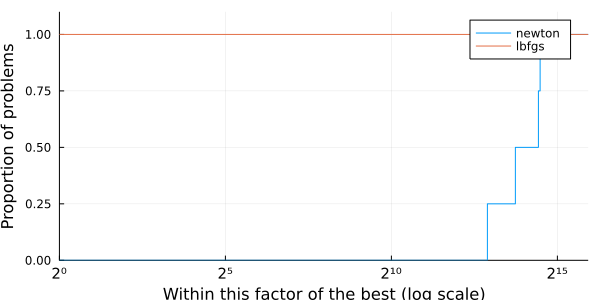
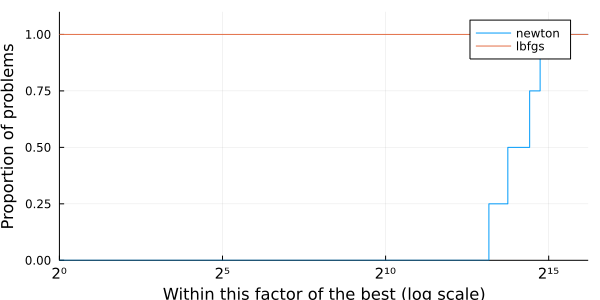
Deploying to gh-pages from  @ dcdb9bae952de26ad7f4052e1809d3c5ec10b59e 🚀

diff --git a/index.html b/index.html
@@ -1,4 +1,4 @@
-<!doctype html> <html lang=en  class=has-navbar-fixed-top > <meta charset=UTF-8 > <meta name=viewport  content="width=device-width, initial-scale=1"> <link rel=stylesheet  href="/libs/katex/katex.min.css"> <link rel=stylesheet  href="/libs/highlight/github.min.css"> <link rel=stylesheet  href="/css/styles.css"> <style> html {font-size: 17px;} .franklin-content {position: relative; padding-left: 8%; padding-right: 5%; line-height: 1.35em;} @media (min-width: 940px) { .franklin-content {width: 100%; margin-left: auto; margin-right: auto;} } @media (max-width: 768px) { .franklin-content {padding-left: 6%; padding-right: 6%;} } </style> <link rel=icon  href="/assets/favicon.png"> <title>Creating a JSO-compliant solver</title> <script src="/libs/highlight/highlight.pack.js"></script> <script src="https://unpkg.com/clipboard@2/dist/clipboard.min.js"></script> <script type=module  src="https://unpkg.com/ionicons@5.5.2/dist/ionicons/ionicons.esm.js"></script> <script nomodule src="https://unpkg.com/ionicons@5.5.2/dist/ionicons/ionicons.js"></script> <script> hljs.getLanguage('julia').keywords.custom = 'obj grad hess AbstractNLPModel'; </script> <nav class="navbar is-primary is-fixed-top" role=navigation  aria-label="main navigation"> <div class=navbar-brand > <a class=navbar-item  href="https://jso-docs.github.io"> <img src="/assets/jso.png"> </a> <a role=button  class=navbar-burger  aria-label=menu  aria-expanded=false  data-target=navbarBasicExample > <span aria-hidden=true ></span> <span aria-hidden=true ></span> <span aria-hidden=true ></span> </a> </div> <div id=navbarBasicExample  class=navbar-menu > <div class=navbar-start > <a class=navbar-item  href="/"> Home </a> <a class=navbar-item  href="/news-and-blogposts/"> News and Blogposts </a> <a class=navbar-item  href="/tutorials/"> Tutorials </a> <div class="navbar-item has-dropdown is-hoverable"> <a class=navbar-link  href="/ecosystems/index.html"> Ecosystems </a> <div class=navbar-dropdown > <a class=navbar-item  href="/ecosystems/linear-algebra/"> Linear Algebra </a> <a class=navbar-item  href="/ecosystems/models/"> Models </a> <a class=navbar-item  href="/ecosystems/solvers/"> Solvers </a> </div> </div> <a class=navbar-item  href="/references/"> References </a> <a class=navbar-item  href="/contributing/"> Contributing </a> </div> <div class=navbar-end > <div class=navbar-item > </div> </div> </div> </nav> <section class=section > <div class=container > <div class=content ><div class=franklin-content ><h1 id=title ><a href="#title" class=header-anchor >Creating a JSO-compliant solver</a></h1></p> <div class=author >by Abel S. Siqueira and João Okimoto</div> <p><img class=badge  src="https://img.shields.io/badge/ADNLPModels-0.3.1-hsl(9,100%25,30%25)?style=flat-square&labelColor=hsl(9,30%25,30%25)"> <img class=badge  src="https://img.shields.io/badge/JSOSolvers-0.7.6-hsl(101,100%25,30%25)?style=flat-square&labelColor=hsl(101,30%25,30%25)"> <img class=badge  src="https://img.shields.io/badge/LinearAlgebra-nothing-666?style=flat-square&labelColor=999"> <img class=badge  src="https://img.shields.io/badge/NLPModels-0.18.3-hsl(175,100%25,30%25)?style=flat-square&labelColor=hsl(175,30%25,30%25)"> <img class=badge  src="https://img.shields.io/badge/Plots-1.27.5-666?style=flat-square&labelColor=999"> <img class=badge  src="https://img.shields.io/badge/SolverBenchmark-0.5.1-hsl(313,100%25,30%25)?style=flat-square&labelColor=hsl(313,30%25,30%25)"> <img class=badge  src="https://img.shields.io/badge/SolverCore-0.2.2-hsl(323,100%25,30%25)?style=flat-square&labelColor=hsl(323,30%25,30%25)"> <p>In this tutorial you will learn what is a JSO-compliant solver, how to create one, and how to benchmark it against some other solver.</p> <div class=franklin-toc ><ol><li><a href="#what_is_a_jso-compliant_solver">What is a JSO-compliant solver</a><li><a href="#method_description">Method description</a><li><a href="#defining_a_test_problem_with_adnlpmodels_and_accessing_its_functions_with_the_nlpmodels_api">Defining a test problem with ADNLPModels and accessing its functions with the NLPModels API</a><li><a href="#improving_the_solver">Improving the solver</a><li><a href="#benchmarking">Benchmarking</a><li><a href="#performance_profiles">Performance profiles</a><li><a href="#improving_the_solver_more">Improving the solver more</a></ol></div> <h2 id=what_is_a_jso-compliant_solver ><a href="#what_is_a_jso-compliant_solver" class=header-anchor >What is a JSO-compliant solver</a></h2> <p>A JSO-compliant solver is a solver whose</p> <ul> <li><p>input is a model implementing the NLPModels API; and</p> <li><p>output is a specific struct from the package SolverCore.</p> </ul> <p>That means that you can devise your solver based on a single API that will work with many different problems. Furthermore, since the output type is known, we can provide tools to compare different solvers.</p> <p>To illustrate the procedure for creating a solver with the JSO API, we&#39;ll implement a Line-Search Modified Newton solver for the problem</p> \[ \min_x \ f(x) \] <h2 id=method_description ><a href="#method_description" class=header-anchor >Method description</a></h2> <p>The method consists of following the direction \(d_k\) that solves</p> \[ \nabla^2 f(x_k) d_k = -\nabla f(x_k) \] <p>This is only reasonable if the system can be solved and \(d_k\) is a descent direction. A sufficient condition for that is that \(\nabla^2 f(x_k)\) is positive definite, which is equivalent to saying that it has a Cholesky decomposition.</p> <p>Since this will not be true in general, the modified Newton method consists of computing \(\rho_k \geq 0\) such that \(\nabla^2 f(x_k) + \rho_k I\) is positive definite. One way to find such a \(\rho_k\) is given below</p> <pre><code class=language-julia >1. Start with ρ from the last iteration
+<!doctype html> <html lang=en  class=has-navbar-fixed-top > <meta charset=UTF-8 > <meta name=viewport  content="width=device-width, initial-scale=1"> <link rel=stylesheet  href="/libs/katex/katex.min.css"> <link rel=stylesheet  href="/libs/highlight/github.min.css"> <link rel=stylesheet  href="/css/styles.css"> <style> html {font-size: 17px;} .franklin-content {position: relative; padding-left: 8%; padding-right: 5%; line-height: 1.35em;} @media (min-width: 940px) { .franklin-content {width: 100%; margin-left: auto; margin-right: auto;} } @media (max-width: 768px) { .franklin-content {padding-left: 6%; padding-right: 6%;} } </style> <link rel=icon  href="/assets/favicon.png"> <title>Creating a JSO-compliant solver</title> <script src="/libs/highlight/highlight.pack.js"></script> <script src="https://unpkg.com/clipboard@2/dist/clipboard.min.js"></script> <script type=module  src="https://unpkg.com/ionicons@5.5.2/dist/ionicons/ionicons.esm.js"></script> <script nomodule src="https://unpkg.com/ionicons@5.5.2/dist/ionicons/ionicons.js"></script> <script> hljs.getLanguage('julia').keywords.custom = 'obj grad hess AbstractNLPModel'; </script> <nav class="navbar is-primary is-fixed-top" role=navigation  aria-label="main navigation"> <div class=navbar-brand > <a class=navbar-item  href="https://jso-docs.github.io"> <img src="/assets/jso.png"> </a> <a role=button  class=navbar-burger  aria-label=menu  aria-expanded=false  data-target=navbarBasicExample > <span aria-hidden=true ></span> <span aria-hidden=true ></span> <span aria-hidden=true ></span> </a> </div> <div id=navbarBasicExample  class=navbar-menu > <div class=navbar-start > <a class=navbar-item  href="/"> Home </a> <a class=navbar-item  href="/news-and-blogposts/"> News and Blogposts </a> <a class=navbar-item  href="/tutorials/"> Tutorials </a> <div class="navbar-item has-dropdown is-hoverable"> <a class=navbar-link  href="/ecosystems/index.html"> Ecosystems </a> <div class=navbar-dropdown > <a class=navbar-item  href="/ecosystems/linear-algebra/"> Linear Algebra </a> <a class=navbar-item  href="/ecosystems/models/"> Models </a> <a class=navbar-item  href="/ecosystems/solvers/"> Solvers </a> </div> </div> <a class=navbar-item  href="/references/"> References </a> <a class=navbar-item  href="/contributing/"> Contributing </a> </div> <div class=navbar-end > <div class=navbar-item > </div> </div> </div> </nav> <section class=section > <div class=container > <div class=content ><div class=franklin-content ><h1 id=title ><a href="#title" class=header-anchor >Creating a JSO-compliant solver</a></h1></p> <div class=author >by Abel S. Siqueira and João Okimoto</div> <p><img class=badge  src="https://img.shields.io/badge/ADNLPModels-0.3.2-hsl(9,100%25,30%25)?style=flat-square&labelColor=hsl(9,30%25,30%25)"> <img class=badge  src="https://img.shields.io/badge/JSOSolvers-0.7.6-hsl(101,100%25,30%25)?style=flat-square&labelColor=hsl(101,30%25,30%25)"> <img class=badge  src="https://img.shields.io/badge/LinearAlgebra-nothing-666?style=flat-square&labelColor=999"> <img class=badge  src="https://img.shields.io/badge/NLPModels-0.18.3-hsl(175,100%25,30%25)?style=flat-square&labelColor=hsl(175,30%25,30%25)"> <img class=badge  src="https://img.shields.io/badge/Plots-1.27.5-666?style=flat-square&labelColor=999"> <img class=badge  src="https://img.shields.io/badge/SolverBenchmark-0.5.1-hsl(313,100%25,30%25)?style=flat-square&labelColor=hsl(313,30%25,30%25)"> <img class=badge  src="https://img.shields.io/badge/SolverCore-0.2.2-hsl(323,100%25,30%25)?style=flat-square&labelColor=hsl(323,30%25,30%25)"> <p>In this tutorial you will learn what is a JSO-compliant solver, how to create one, and how to benchmark it against some other solver.</p> <div class=franklin-toc ><ol><li><a href="#what_is_a_jso-compliant_solver">What is a JSO-compliant solver</a><li><a href="#method_description">Method description</a><li><a href="#defining_a_test_problem_with_adnlpmodels_and_accessing_its_functions_with_the_nlpmodels_api">Defining a test problem with ADNLPModels and accessing its functions with the NLPModels API</a><li><a href="#improving_the_solver">Improving the solver</a><li><a href="#benchmarking">Benchmarking</a><li><a href="#performance_profiles">Performance profiles</a><li><a href="#improving_the_solver_more">Improving the solver more</a></ol></div> <h2 id=what_is_a_jso-compliant_solver ><a href="#what_is_a_jso-compliant_solver" class=header-anchor >What is a JSO-compliant solver</a></h2> <p>A JSO-compliant solver is a solver whose</p> <ul> <li><p>input is a model implementing the NLPModels API; and</p> <li><p>output is a specific struct from the package SolverCore.</p> </ul> <p>That means that you can devise your solver based on a single API that will work with many different problems. Furthermore, since the output type is known, we can provide tools to compare different solvers.</p> <p>To illustrate the procedure for creating a solver with the JSO API, we&#39;ll implement a Line-Search Modified Newton solver for the problem</p> \[ \min_x \ f(x) \] <h2 id=method_description ><a href="#method_description" class=header-anchor >Method description</a></h2> <p>The method consists of following the direction \(d_k\) that solves</p> \[ \nabla^2 f(x_k) d_k = -\nabla f(x_k) \] <p>This is only reasonable if the system can be solved and \(d_k\) is a descent direction. A sufficient condition for that is that \(\nabla^2 f(x_k)\) is positive definite, which is equivalent to saying that it has a Cholesky decomposition.</p> <p>Since this will not be true in general, the modified Newton method consists of computing \(\rho_k \geq 0\) such that \(\nabla^2 f(x_k) + \rho_k I\) is positive definite. One way to find such a \(\rho_k\) is given below</p> <pre><code class=language-julia >1. Start with ρ from the last iteration
 2. Try to compute the Cholesky factor of ∇²f&#40;x&#41; &#43; ρI
 3. If not successful, increase ρ to either 1e-8 or 10ρ, whichever is largest, and return to step 2
 4. Otherwise, continue the algorithm</code></pre> <p>Next, for the line-search part, we use backtracking and ask that the Armijo condition be satisfied, that is find the smallest \(p \in \mathbb{N}\) such that \(t = σ^p\) satisfies</p> \[ f(x_k + td_k) < f(x_k) + \alpha t g_k^T d_k, \] <p>for \(\alpha \in (0,1)\), called the Armijo parameter.</p> <h2 id=defining_a_test_problem_with_adnlpmodels_and_accessing_its_functions_with_the_nlpmodels_api ><a href="#defining_a_test_problem_with_adnlpmodels_and_accessing_its_functions_with_the_nlpmodels_api" class=header-anchor >Defining a test problem with ADNLPModels and accessing its functions with the NLPModels API</a></h2> <p>Let&#39;s define a test problem to verify that our method is working, and let&#39;s use a classic one: Rosenbrock&#39;s function<sup id="fnref:1"><a href="#fndef:1" class=fnref >[1]</a></sup></p> \[ \min_x \ (x_1 - 1)^2 + 4 (x_2 - x_1^2)^2, \] <p>starting from point &#91;-1.2; 1.0&#93;.</p> <pre><code class=language-julia >using Plots
@@ -8,7 +8,7 @@ contour&#40;-2:0.02:2, -0.5:0.02:1.5, &#40;x,y&#41; -&gt; &#40;x - 1&#41;^2 &#43
 nlp &#61; ADNLPModel&#40;
   x -&gt; &#40;x&#91;1&#93; - 1&#41;^2 &#43; 4 * &#40;x&#91;2&#93; - x&#91;1&#93;^2&#41;^2, # function
   &#91;-1.2; 1.0&#93; # starting point
-&#41;</code></pre><pre><code class="plaintext code-output">ADNLPModel - Model with automatic differentiation backend ADNLPModels.ForwardDiffAD{ForwardDiff.GradientConfig{ForwardDiff.Tag{var"#3#4", Float64}, Float64, 2, Vector{ForwardDiff.Dual{ForwardDiff.Tag{var"#3#4", Float64}, Float64, 2}}}}(3, 0, ForwardDiff.GradientConfig{ForwardDiff.Tag{var"#3#4", Float64}, Float64, 2, Vector{ForwardDiff.Dual{ForwardDiff.Tag{var"#3#4", Float64}, Float64, 2}}}((Partials(1.0, 0.0), Partials(0.0, 1.0)), ForwardDiff.Dual{ForwardDiff.Tag{var"#3#4", Float64}, Float64, 2}[Dual{ForwardDiff.Tag{var"#3#4", Float64}}(0.0,6.9095071710586e-310,6.9095071490438e-310), Dual{ForwardDiff.Tag{var"#3#4", Float64}}(0.0,6.9095071710586e-310,6.9095071490438e-310)]))
+&#41;</code></pre><pre><code class="plaintext code-output">ADNLPModel - Model with automatic differentiation backend ADNLPModels.ForwardDiffAD{ForwardDiff.GradientConfig{ForwardDiff.Tag{var"#3#4", Float64}, Float64, 2, Vector{ForwardDiff.Dual{ForwardDiff.Tag{var"#3#4", Float64}, Float64, 2}}}}(3, 0, ForwardDiff.GradientConfig{ForwardDiff.Tag{var"#3#4", Float64}, Float64, 2, Vector{ForwardDiff.Dual{ForwardDiff.Tag{var"#3#4", Float64}, Float64, 2}}}((Partials(1.0, 0.0), Partials(0.0, 1.0)), ForwardDiff.Dual{ForwardDiff.Tag{var"#3#4", Float64}, Float64, 2}[Dual{ForwardDiff.Tag{var"#3#4", Float64}}(0.0,6.94582646376784e-310,6.9458277544254e-310), Dual{ForwardDiff.Tag{var"#3#4", Float64}}(0.0,6.94582646376784e-310,6.94582644175307e-310)]))
   Problem name: Generic
    All variables: ████████████████████ 2      All constraints: ⋅⋅⋅⋅⋅⋅⋅⋅⋅⋅⋅⋅⋅⋅⋅⋅⋅⋅⋅⋅ 0     
             free: ████████████████████ 2                 free: ⋅⋅⋅⋅⋅⋅⋅⋅⋅⋅⋅⋅⋅⋅⋅⋅⋅⋅⋅⋅ 0     
@@ -247,7 +247,7 @@ print&#40;output&#41;</code></pre><pre><code class="plaintext code-output">Gener
   dual feasibility: 4.018046284781729e-9
   solution: [0.9999999986742657  0.9999999970013461]
   iterations: 18
-  elapsed time: 5.2928924560546875e-5
+  elapsed time: 6.29425048828125e-5
 </code></pre>
 <p>And to compare both solvers, we need a collection of problems. Let&#39;s just create one manually for now.</p>
 <pre><code class=language-julia >problems &#61; &#91;
@@ -265,18 +265,18 @@ stats &#61; bmark_solvers&#40;solvers, problems&#41;</code></pre><pre><code clas
  Row │ id     name     nvar   ncon   nequ   status       objective     elapsed_time  iter   dual_feas  primal_feas  neval_obj  neval_grad  neval_cons  neval_cons_lin  neval_cons_nln  neval_jcon  neval_jgrad  neval_jac  neval_jac_lin  neval_jac_nln  neval_jprod  neval_jprod_lin  neval_jprod_nln  neval_jtprod  neval_jtprod_lin  neval_jtprod_nln  neval_hess  neval_hprod  neval_jhess  neval_jhprod  neval_residual  neval_jac_residual  neval_jprod_residual  neval_jtprod_residual  neval_hess_residual  neval_jhess_residual  neval_hprod_residual  extrainfo
      │ Int64  String   Int64  Int64  Int64  Symbol       Float64       Float64       Int64  Float64    Float64      Int64      Int64       Int64       Int64           Int64           Int64       Int64        Int64      Int64          Int64          Int64        Int64            Int64            Int64         Int64             Int64             Int64       Int64        Int64        Int64         Int64           Int64               Int64                 Int64                  Int64                Int64                 Int64                 String
 ─────┼────────────────────────────────────────────────────────────────────────────────────────────────────────────────────────────────────────────────────────────────────────────────────────────────────────────────────────────────────────────────────────────────────────────────────────────────────────────────────────────────────────────────────────────────────────────────────────────────────────────────────────────────────────────────────────────────────────────────────────────────────────────────────────────────────────────────────────────────────
-   1 │     1  Generic      2      0      0  first_order   2.46519e-31      0.477763      1        Inf          0.0          3           4           0               0               0           0            0          0              0              0            0                0                0             0                 0                 0           1            0            0             0               0                   0                     0                      0                    0                     0                     0
-   2 │     2  Generic      2      0      0  first_order   3.74398e-21      0.532753     21        Inf          0.0         50          64           0               0               0           0            0          0              0              0            0                0                0             0                 0                 0          21            0            0             0               0                   0                     0                      0                    0                     0                     0
-   3 │     3  Generic      2      0      0  max_iter     -8.36356          0.501235    100        Inf          0.0        201         301           0               0               0           0            0          0              0              0            0                0                0             0                 0                 0         100            0            0             0               0                   0                     0                      0                    0                     0                     0
-   4 │     4  Generic      2      0      0  first_order   1.43195          0.531023      5        Inf          0.0         12          16           0               0               0           0            0          0              0              0            0                0                0             0                 0                 0           5            0            0             0               0                   0                     0                      0                    0                     0                     0
+   1 │     1  Generic      2      0      0  first_order   2.46519e-31      0.495109      1        Inf          0.0          3           4           0               0               0           0            0          0              0              0            0                0                0             0                 0                 0           1            0            0             0               0                   0                     0                      0                    0                     0                     0
+   2 │     2  Generic      2      0      0  first_order   3.74398e-21      0.607329     21        Inf          0.0         50          64           0               0               0           0            0          0              0              0            0                0                0             0                 0                 0          21            0            0             0               0                   0                     0                      0                    0                     0                     0
+   3 │     3  Generic      2      0      0  max_iter     -8.36356          0.526674    100        Inf          0.0        201         301           0               0               0           0            0          0              0              0            0                0                0             0                 0                 0         100            0            0             0               0                   0                     0                      0                    0                     0                     0
+   4 │     4  Generic      2      0      0  first_order   1.43195          0.573025      5        Inf          0.0         12          16           0               0               0           0            0          0              0              0            0                0                0             0                 0                 0           5            0            0             0               0                   0                     0                      0                    0                     0                     0
   :lbfgs => 4×39 DataFrame
  Row │ id     name     nvar   ncon   nequ   status       objective     elapsed_time  iter   dual_feas   primal_feas  neval_obj  neval_grad  neval_cons  neval_cons_lin  neval_cons_nln  neval_jcon  neval_jgrad  neval_jac  neval_jac_lin  neval_jac_nln  neval_jprod  neval_jprod_lin  neval_jprod_nln  neval_jtprod  neval_jtprod_lin  neval_jtprod_nln  neval_hess  neval_hprod  neval_jhess  neval_jhprod  neval_residual  neval_jac_residual  neval_jprod_residual  neval_jtprod_residual  neval_hess_residual  neval_jhess_residual  neval_hprod_residual  extrainfo
      │ Int64  String   Int64  Int64  Int64  Symbol       Float64       Float64       Int64  Float64     Float64      Int64      Int64       Int64       Int64           Int64           Int64       Int64        Int64      Int64          Int64          Int64        Int64            Int64            Int64         Int64             Int64             Int64       Int64        Int64        Int64         Int64           Int64               Int64                 Int64                  Int64                Int64                 Int64                 String
 ─────┼─────────────────────────────────────────────────────────────────────────────────────────────────────────────────────────────────────────────────────────────────────────────────────────────────────────────────────────────────────────────────────────────────────────────────────────────────────────────────────────────────────────────────────────────────────────────────────────────────────────────────────────────────────────────────────────────────────────────────────────────────────────────────────────────────────────────────────────────────────
-   1 │     1  Generic      2      0      0  first_order   2.26824e-16    3.50475e-5      8  5.28297e-8          0.0         11          10           0               0               0           0            0          0              0              0            0                0                0             0                 0                 0           0            0            0             0               0                   0                     0                      0                    0                     0                     0
-   2 │     2  Generic      2      0      0  first_order   1.44561e-17    7.00951e-5     39  8.41132e-8          0.0         52          45           0               0               0           0            0          0              0              0            0                0                0             0                 0                 0           0            0            0             0               0                   0                     0                      0                    0                     0                     0
-   3 │     3  Generic      2      0      0  first_order  -8.37235        2.19345e-5     12  1.60958e-9          0.0         17          15           0               0               0           0            0          0              0              0            0                0                0             0                 0                 0           0            0            0             0               0                   0                     0                      0                    0                     0                     0
-   4 │     4  Generic      2      0      0  first_order   1.43195        2.40803e-5      9  4.18646e-9          0.0         11          11           0               0               0           0            0          0              0              0            0                0                0             0                 0                 0           0            0            0             0               0                   0                     0                      0                    0                     0                     0</code></pre>
+   1 │     1  Generic      2      0      0  first_order   2.26824e-16    3.60012e-5      8  5.28297e-8          0.0         11          10           0               0               0           0            0          0              0              0            0                0                0             0                 0                 0           0            0            0             0               0                   0                     0                      0                    0                     0                     0
+   2 │     2  Generic      2      0      0  first_order   1.44561e-17    6.60419e-5     39  8.41132e-8          0.0         52          45           0               0               0           0            0          0              0              0            0                0                0             0                 0                 0           0            0            0             0               0                   0                     0                      0                    0                     0                     0
+   3 │     3  Generic      2      0      0  first_order  -8.37235        2.40803e-5     12  1.60958e-9          0.0         17          15           0               0               0           0            0          0              0              0            0                0                0             0                 0                 0           0            0            0             0               0                   0                     0                      0                    0                     0                     0
+   4 │     4  Generic      2      0      0  first_order   1.43195        2.09808e-5      9  4.18646e-9          0.0         11          11           0               0               0           0            0          0              0              0            0                0                0             0                 0                 0           0            0            0             0               0                   0                     0                      0                    0                     0                     0</code></pre>
 <p>The results is a Dictionary of Symbols to DataFrame tables.</p>
 <pre><code class=language-julia >@show typeof&#40;stats&#41;
 @show keys&#40;stats&#41;</code></pre><pre><code class="plaintext code-output">typeof(stats) = Dict{Symbol, DataFrames.DataFrame}
@@ -287,10 +287,10 @@ keys(stats) = [:newton, :lbfgs]
 pretty_stats&#40;stats&#91;:newton&#93;&#91;&#33;, cols&#93;&#41;</code></pre><pre><code class="plaintext code-output">┌─────────┬─────────────┬───────────┬──────────────┬────────┐
 │    name │      status │ objective │ elapsed_time │   iter │
 ├─────────┼─────────────┼───────────┼──────────────┼────────┤
-│ Generic │ first_order │  2.47e-31 │     4.78e-01 │      1 │
-│ Generic │ first_order │  3.74e-21 │     5.33e-01 │     21 │
-│ Generic │    max_iter │ -8.36e+00 │     5.01e-01 │    100 │
-│ Generic │ first_order │  1.43e+00 │     5.31e-01 │      5 │
+│ Generic │ first_order │  2.47e-31 │     4.95e-01 │      1 │
+│ Generic │ first_order │  3.74e-21 │     6.07e-01 │     21 │
+│ Generic │    max_iter │ -8.36e+00 │     5.27e-01 │    100 │
+│ Generic │ first_order │  1.43e+00 │     5.73e-01 │      5 │
 └─────────┴─────────────┴───────────┴──────────────┴────────┘
 </code></pre>
 <p>We can also create a similar table in .tex format, using something like</p>
@@ -496,7 +496,7 @@ performance_profile&#40;stats, cost&#41;</code></pre>
     <footer class=footer >
       <div class="content has-text-centered is-small">
         &copy; Abel Soares Siqueira. <br>
-        Last modified: April 10, 2022.<br>
+        Last modified: April 17, 2022.<br>
         <a ckass=link  href="https://github.com/jso-docs/">jso-docs at GitHub</a>
       </div>
     </footer>
